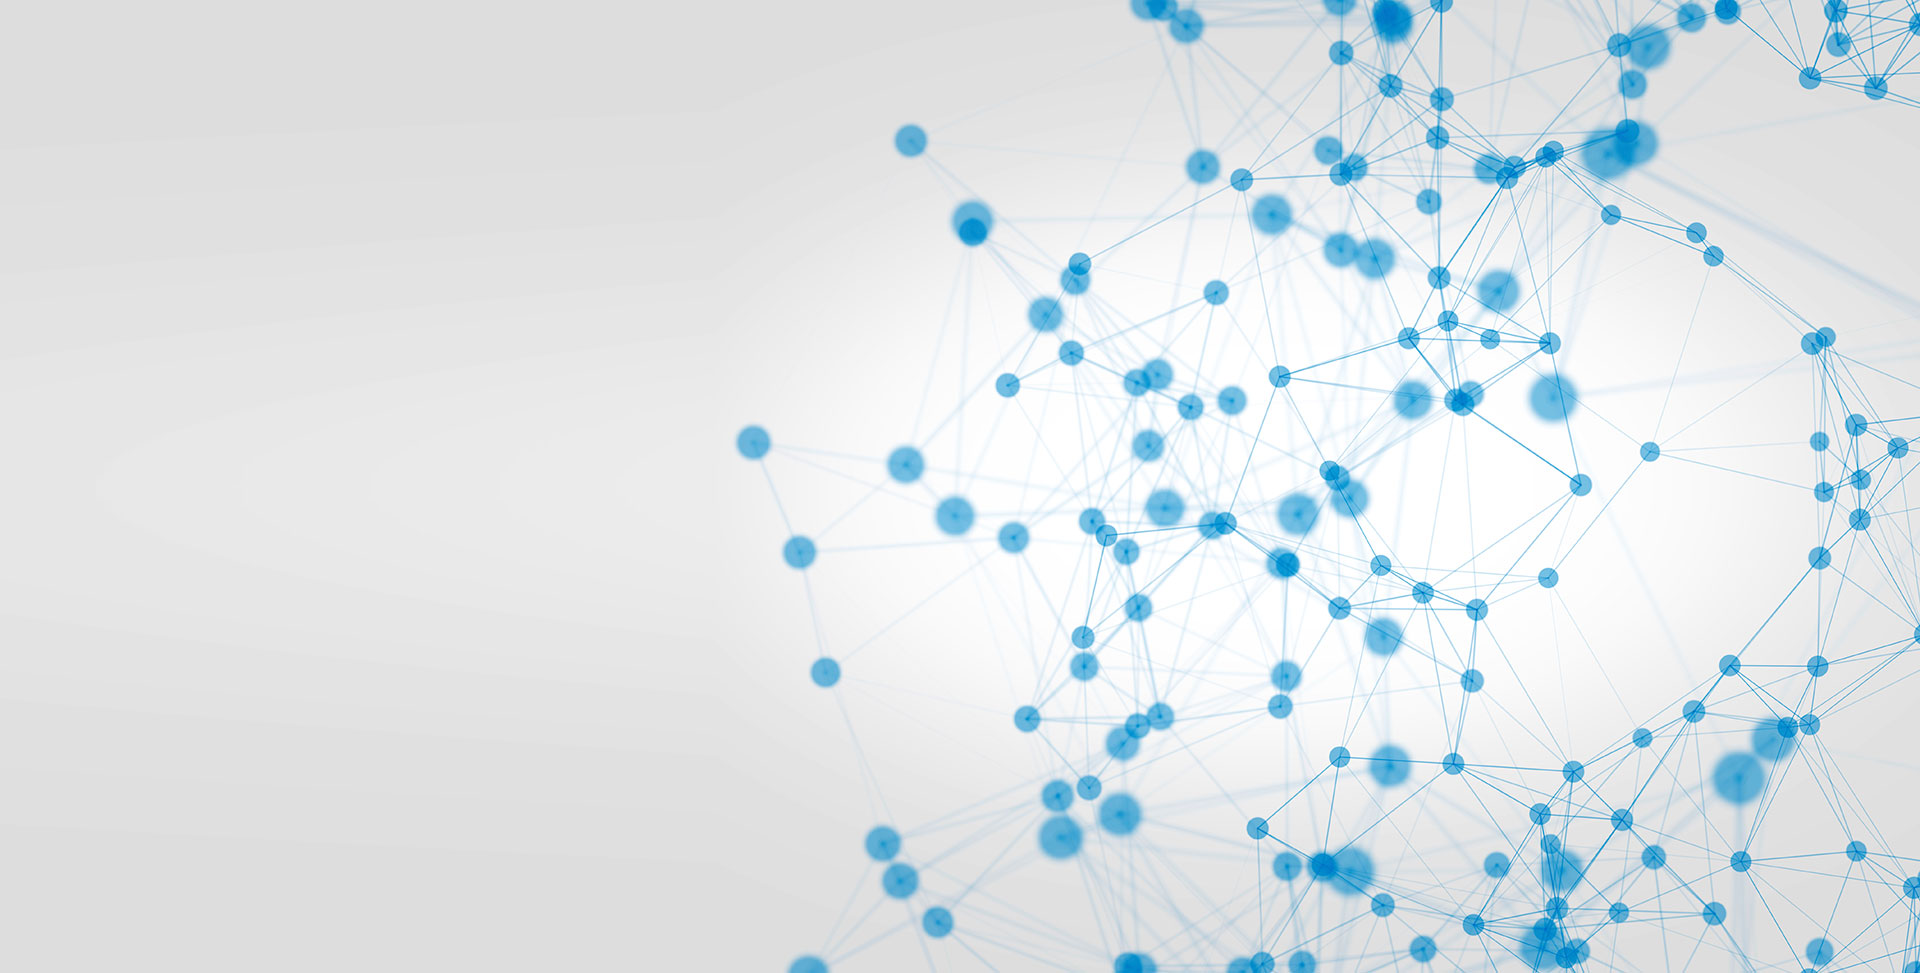
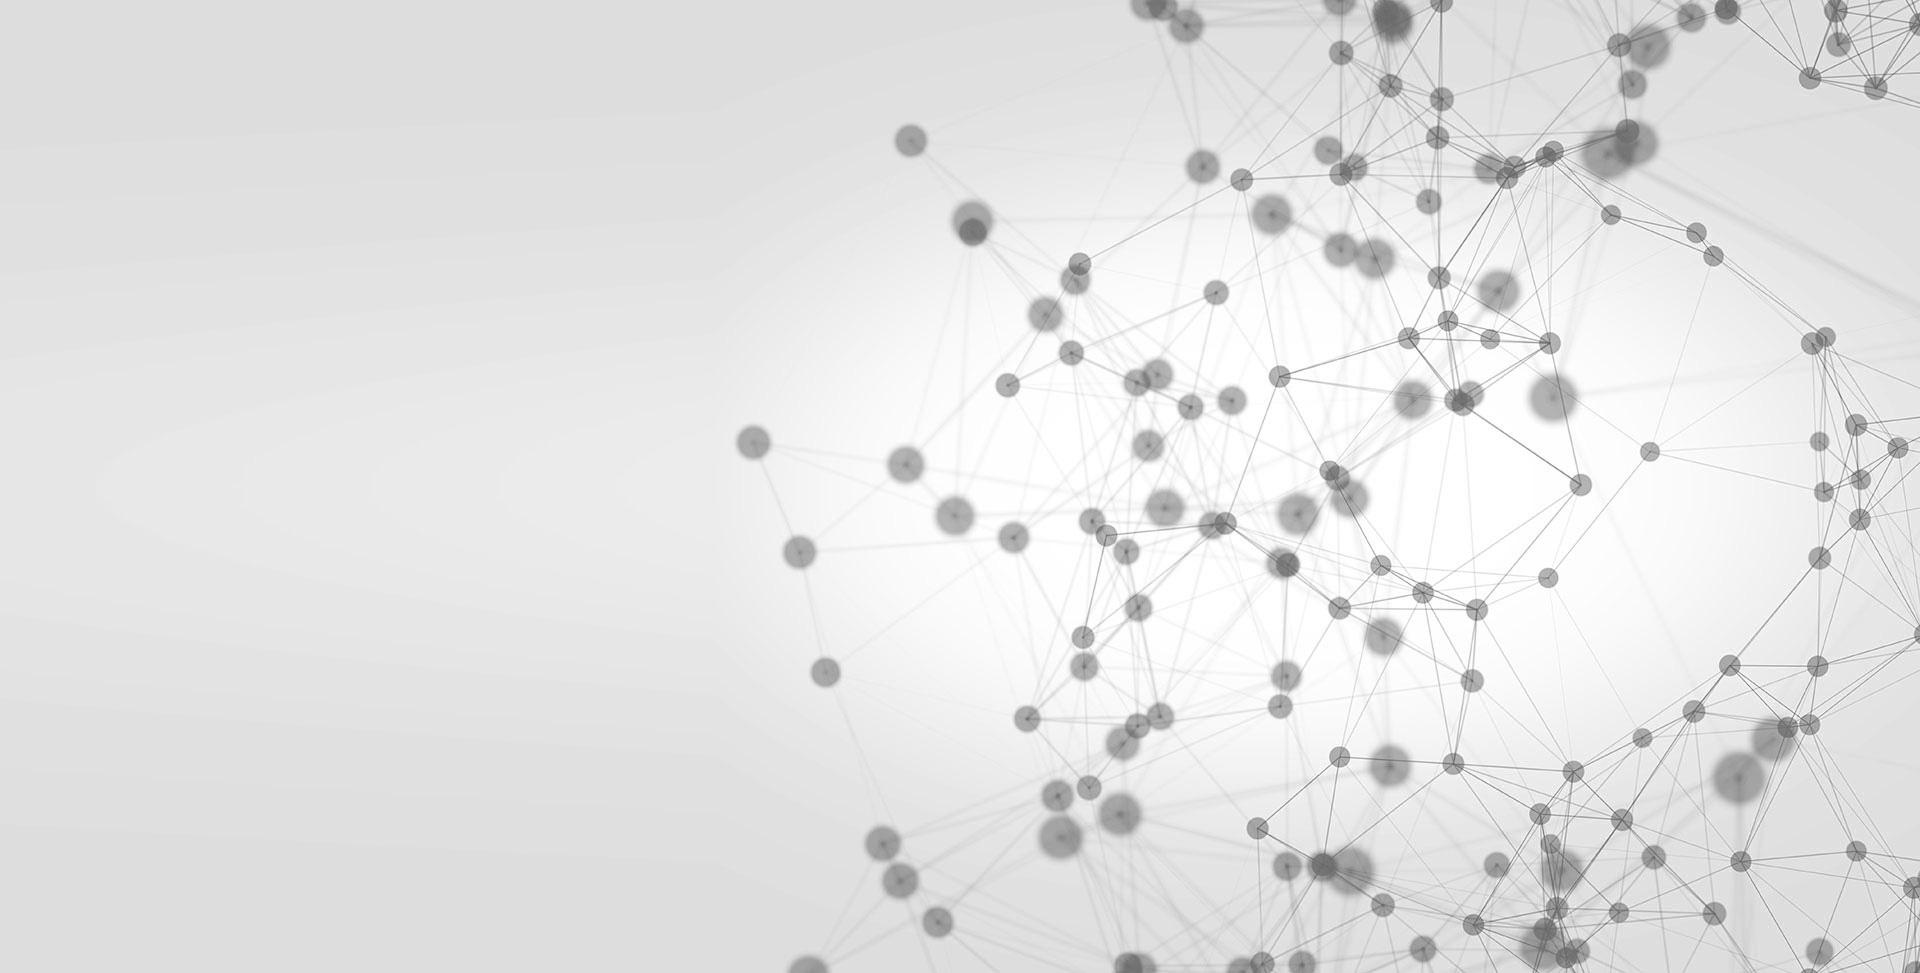
Background image tomfoolery

diff --git a/css/main.css b/css/main.css
@@ -1072,7 +1072,7 @@ body {
   font-family: "Fira Sans", Helvetica, Arial, sans-serif;
   font-size: 16px;
   line-height: 1.9375;
-  color: #333333;
+  color: #3D195E;
   background-color: #fff; }
 
 input,
@@ -2814,7 +2814,7 @@ select[multiple].input-lg,
   display: block;
   margin-top: 5px;
   margin-bottom: 10px;
-  color: #737373; }
+  color: #7e34c3; }
 
 @media (min-width: 768px) {
   .form-inline .form-group {
@@ -3079,17 +3079,20 @@ input[type="button"].btn-block {
   width: 100%; }
 
 .background-image {
-  background-image: url("/images/sqreem-humanity-section-bg.jpg");
+  background: linear-gradient(to bottom, transparent 0%, rgba(255, 255, 255, 0.5) 50%, white 90%), url("/images/sqreem-humanity-section-bg.png") no-repeat;
   background-repeat: no-repeat;
   background-size: cover;
-  background-position: top right; }
+  background-position: top right;
+  border-top: 1px solid #ddd;
+  border-bottom: 1px solid #ddd; }
 
 .row img {
   margin-bottom: 20px; }
 
 .footer {
   background-color: #3D195E;
-  color: #fff; }
+  color: #fff;
+  margin-top: 50px; }
   .footer a {
     font-weight: 300;
     color: #fff; }
@@ -4321,7 +4324,7 @@ body {
     margin-right: auto; }
   .thumbnail .caption {
     padding: 9px;
-    color: #333333; }
+    color: #3D195E; }
 
 a.thumbnail:hover,
 a.thumbnail:focus,

diff --git a/scss/bootstrap/_gz-pages.scss b/scss/bootstrap/_gz-pages.scss
@@ -3,10 +3,12 @@
 //
 
 .background-image {
-  background-image: url("/images/sqreem-humanity-section-bg.jpg");
+  background: linear-gradient(to bottom, rgba(0,0,0,0) 0%,rgba(255,255,255,0.5) 50%,rgba(255,255,255,1) 90%), url('/images/sqreem-humanity-section-bg.png') no-repeat;
   background-repeat: no-repeat;
   background-size: cover;
   background-position: top right;
+  border-top: 1px solid #ddd;
+  border-bottom: 1px solid #ddd;
 }
 
 .row img {

diff --git a/scss/bootstrap/_variables.scss b/scss/bootstrap/_variables.scss
@@ -29,7 +29,7 @@ $brand-danger:          #d9534f !default;
 //** Background color for `<body>`.
 $body-bg:               #fff !default;
 //** Global text color on `<body>`.
-$text-color:            $gray-dark !default;
+$text-color:            #3D195E !default;
 
 //** Global textual link color.
 $link-color:            $brand-primary !default;

diff --git a/scss/bootstrap/_footer.scss b/scss/bootstrap/_footer.scss
@@ -5,6 +5,7 @@
 .footer{
 	background-color: #3D195E;
 	color: #fff;
+	margin-top: 50px;
 	
 	a {
 		font-weight: 300;
